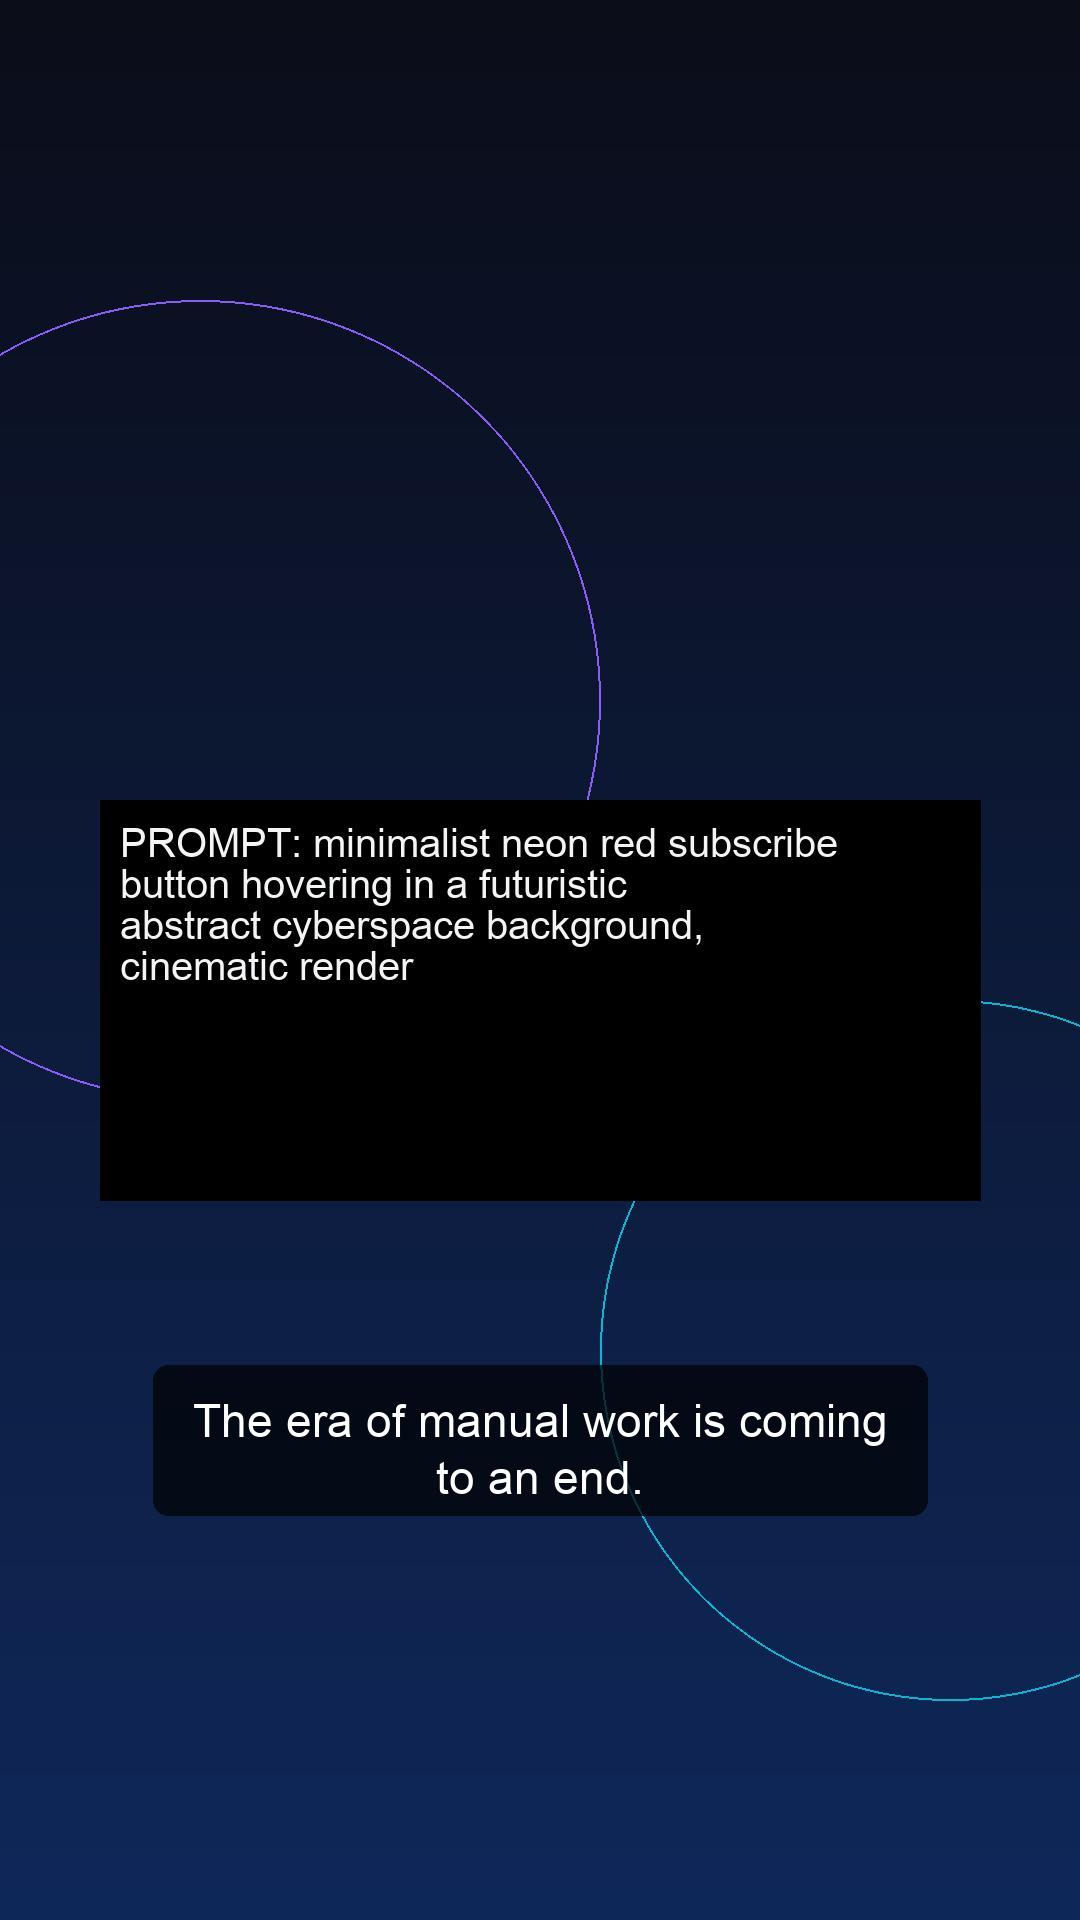
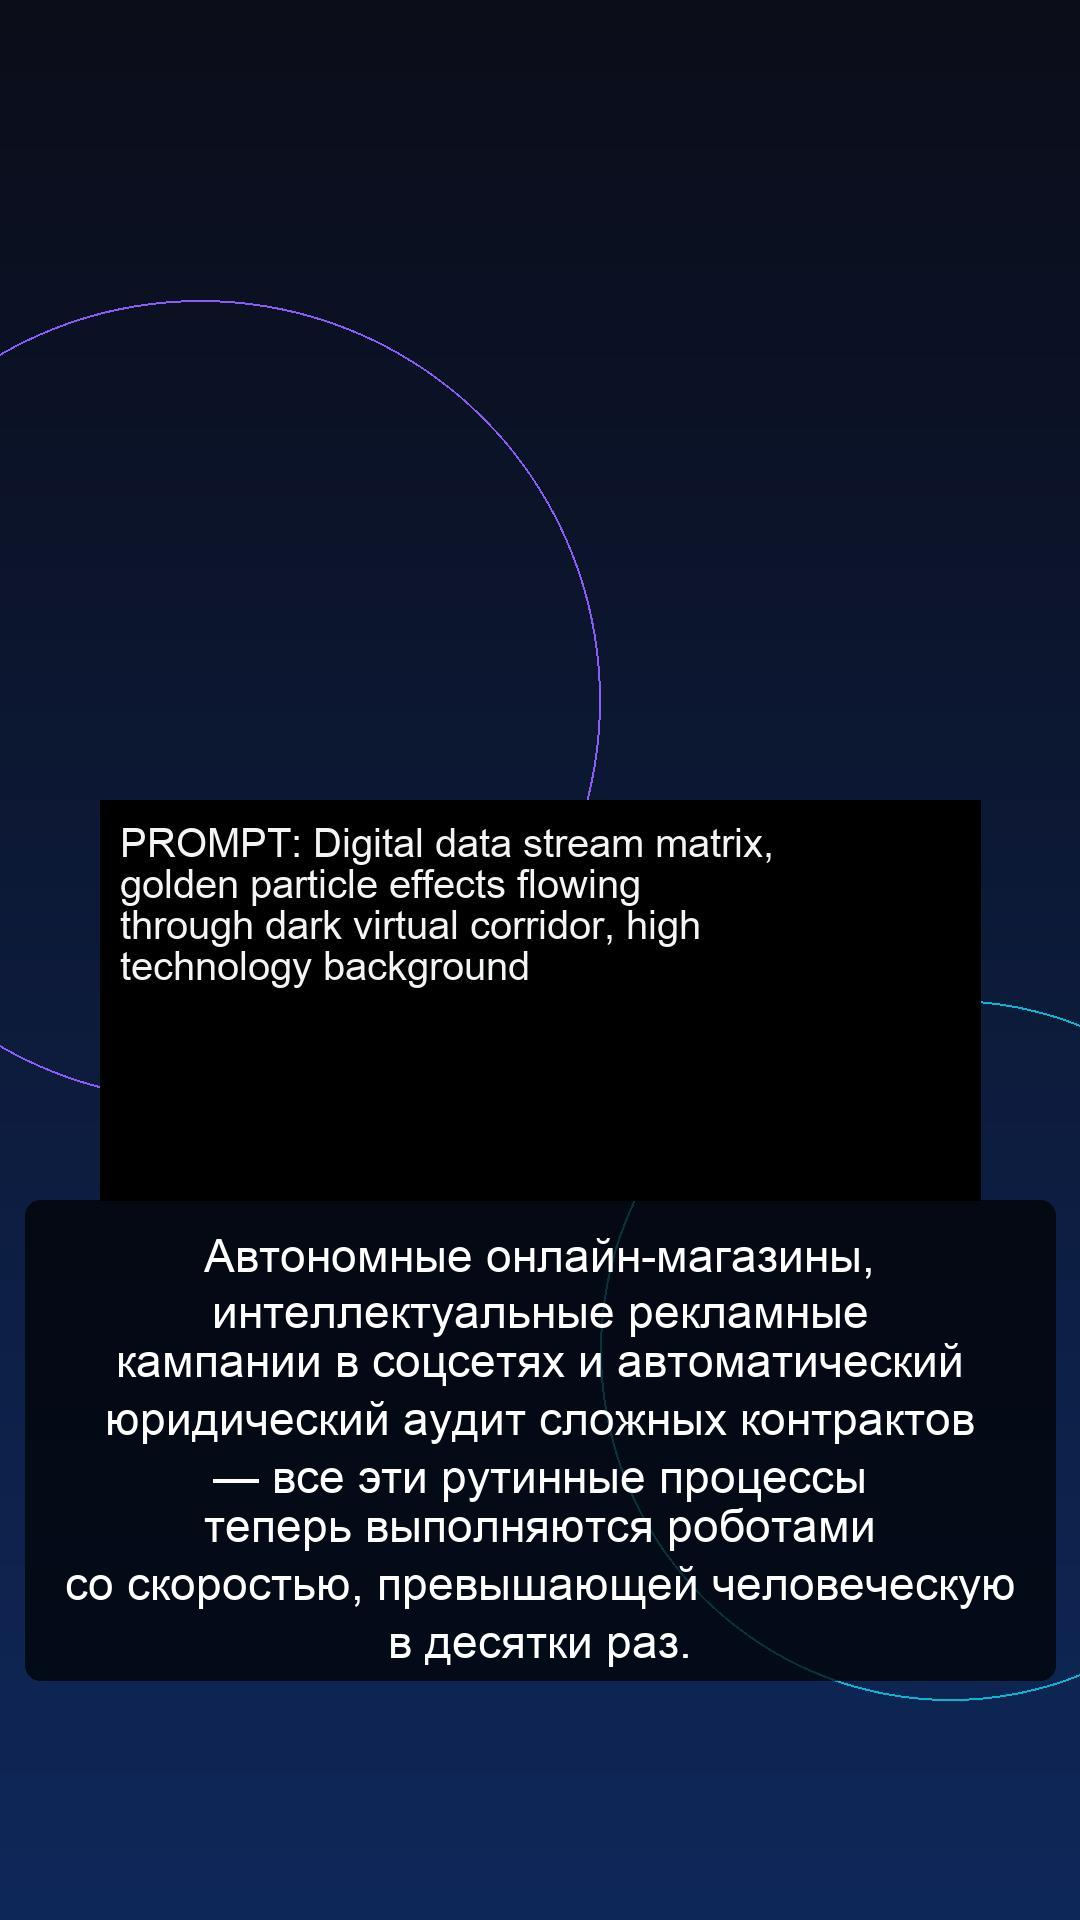
feat(youtube): реализовать производство длинного видео с A/B заголовками

Changed region(s): [[0.0, 0.625, 0.9778, 0.875], [0.0917, 0.4375, 0.7639, 0.5312]]

diff --git a/youtube-faceless-pipeline/ui/index.html b/youtube-faceless-pipeline/ui/index.html
@@ -1012,9 +1012,15 @@
                 <!-- Правая колонка (SEO, Загрузка, Чеклист) -->
                 <div class="info-panel">
                     <div class="seo-item">
-                        <button class="btn-action-copy" onclick="copyText('meta-title-text')">Копировать</button>
-                        <div class="seo-label">Оптимизированный заголовок</div>
-                        <div style="margin-top: 1rem;" class="seo-content-box" id="meta-title-text"></div>
+                        <button class="btn-action-copy" onclick="copyText('meta-title-a-text')">Копировать</button>
+                        <div class="seo-label">Заголовок Вариант A (Профессиональный)</div>
+                        <div style="margin-top: 1rem;" class="seo-content-box" id="meta-title-a-text"></div>
+                    </div>
+
+                    <div class="seo-item">
+                        <button class="btn-action-copy" onclick="copyText('meta-title-b-text')">Копировать</button>
+                        <div class="seo-label">Заголовок Вариант B (Кликбейтный CTR)</div>
+                        <div style="margin-top: 1rem;" class="seo-content-box" id="meta-title-b-text"></div>
                     </div>
 
                     <div class="seo-item">
@@ -1256,7 +1262,8 @@
                 
                 document.getElementById('output-thumbnail').src = data.thumbnail_url;
 
-                document.getElementById('meta-title-text').innerText = data.metadata.title;
+                document.getElementById('meta-title-a-text').innerText = data.metadata.title_a || data.metadata.title;
+                document.getElementById('meta-title-b-text').innerText = data.metadata.title_b || data.metadata.title;
                 document.getElementById('meta-desc-text').innerText = data.metadata.description;
                 
                 const tagsContainer = document.getElementById('meta-tags-container');

diff --git a/youtube-faceless-pipeline/tools/content_gen.py b/youtube-faceless-pipeline/tools/content_gen.py
@@ -110,24 +110,55 @@ class VideoGenerator:
         trend1 = trends[0] if len(trends) > 0 else "AI Automation"
         trend2 = trends[1] if len(trends) > 1 else "Future Tech"
 
+        niche_lower = niche.lower()
+        if "autonomous" in niche_lower or "agents" in niche_lower:
+            scenes = [
+                {
+                    "text": "Привет! В две тысячи двадцать шестом году автономные ИИ-агенты вышли на совершенно новый уровень и теперь они способны управлять реальными коммерческими проектами и бизнесами полностью самостоятельно без какого-либо вмешательства со стороны человека.",
+                    "visual_prompt": "Futuristic clean laboratory with glowing neon cyan lines, professional dashboard displayed on screen, hyperrealistic, dark mood"
+                },
+                {
+                    "text": "В основе всей этой невероятной системы лежит передовая архитектура Solo Loop. ИИ-агент самостоятельно ставит себе задачи, пишет программный код, разворачивает облачные серверы, настраивает базы данных и проводит полную SEO-оптимизацию.",
+                    "visual_prompt": "Abstract cybernetic brain connection nodes, digital neural network interface, glowing blue particles, cinematic lighting"
+                },
+                {
+                    "text": "Автономные онлайн-магазины, интеллектуальные рекламные кампании в соцсетях и автоматический юридический аудит сложных контрактов — все эти рутинные процессы теперь выполняются роботами со скоростью, превышающей человеческую в десятки раз.",
+                    "visual_prompt": "Digital data stream matrix, golden particle effects flowing through dark virtual corridor, high technology background"
+                },
+                {
+                    "text": "Новейшие технологические решения, такие как революционная платформа ChipStack AI, наглядно продемонстрировали на выставке Computex 2026, что виртуальные инженеры могут проектировать сложнейшие микропроцессоры за считанные минуты.",
+                    "visual_prompt": "Detailed silicon microchip layout glowing green, virtual schematic blueprint overlay, high tech render"
+                },
+                {
+                    "text": "В этой новой реальности человек смещается в роль высокоуровневого рецензента и контролера по знаменитому правилу Dan Martell 10-80-10, экономя колоссальное количество своего драгоценного времени и ментальной энергии.",
+                    "visual_prompt": "Minimalist digital productivity space, smooth neon purple highlights, elegant dashboard showing time saved"
+                },
+                {
+                    "text": "Если вы хотите узнать, как запустить и масштабировать свой собственный полностью автоматизированный ИИ-бизнес, обязательно подписывайтесь на наш канал. Мы покажем вам весь процесс разработки от А до Я!",
+                    "visual_prompt": "Futuristic neon red subscribe button hovering in dynamic abstract cyberspace backdrop, cinematic render"
+                }
+            ]
+        else:
+            scenes = [
+                {
+                    "text": f"Here is the truth about {trend1} in 2026. It is changing faster than ever.",
+                    "visual_prompt": "futuristic laboratory with glowing neon lines, high tech computer screen displaying charts, hyperrealistic, dark mood, purple neon accents",
+                },
+                {
+                    "text": f"This is why {trend2} will change everything in our daily productivity loop.",
+                    "visual_prompt": "abstract cybernetic brain connection nodes, digital neural network interface, glowing blue and cyan particles, cinematic lighting",
+                },
+                {
+                    "text": "The era of manual work is coming to an end. Join the automation era today.",
+                    "visual_prompt": "minimalist neon red subscribe button hovering in a futuristic abstract cyberspace background, cinematic render",
+                },
+            ]
+
         script = {
             "title": f"The Future of {niche.split('/')[-1].capitalize()}: {trend1.title()}",
             "description": f"How {trend1} and {trend2} are reshaping the world. Stay tuned for details! #technology #faceless #ai",
             "tags": [niche.split("/")[-1], "tech", "faceless", "ai", "trends"],
-            "scenes": [
-                {
-                    "text": f"Here is the truth about {trend1} in 2026.",
-                    "visual_prompt": "futuristic laboratory with glowing neon lines, high tech computer screen displaying charts, hyperrealistic, dark mood, purple neon accents",
-                },
-                {
-                    "text": f"This is why {trend2} will change everything.",
-                    "visual_prompt": "abstract cybernetic brain connection nodes, digital neural network interface, glowing blue and cyan particles, cinematic lighting",
-                },
-                {
-                    "text": "The era of manual work is coming to an end.",
-                    "visual_prompt": "minimalist neon red subscribe button hovering in a futuristic abstract cyberspace background, cinematic render",
-                },
-            ],
+            "scenes": scenes,
         }
 
         # Валидация сгенерированного сценария
@@ -431,9 +462,10 @@ class VideoGenerator:
         full_text = " ".join([scene["text"] for scene in script["scenes"]])
         similarity = self.seo.check_similarity(full_text)
 
-        if similarity > 0.75:
+        # Уникальность должна быть > 60%, то есть сходство по Жаккару < 40% (0.40)
+        if similarity > 0.40:
             raise ContentPolicyError(
-                f"Duplicate content warning: script has {similarity * 100:.1f}% similarity with past videos."
+                f"Duplicate content warning: script has {similarity * 100:.1f}% similarity with past videos (max allowed: 40.0%)."
             )
 
         self.seo.save_to_database(full_text)

diff --git a/youtube-faceless-pipeline/tests/test_pipeline.py b/youtube-faceless-pipeline/tests/test_pipeline.py
@@ -37,26 +37,50 @@ def test_pipeline_positive_cycle():
     """
     Положительный тест: Проверяет полный цикл генерации видео,
     включая SEO, Thumbnail, лимиты уникальности контента и AdSense чеклист.
+    Также проверяет наличие A/B заголовков и длительность видео > 90 секунд.
     """
+    import json
     generator = content_gen.VideoGenerator(output_dir=TEST_OUTPUT_DIR)
     # Настраиваем путь к тестовой БД
     generator.seo.database_path = os.path.join(
         TEST_OUTPUT_DIR, "generated_scripts_db.json"
     )
 
+    # Создаем 7 длинных сцен, чтобы суммарная длительность превысила 90 секунд.
+    # В _create_fallback_speech длительность сцены: max(2, int(word_count * 0.5))
     mock_script = {
-        "title": "5 Mind-Blowing AI Trends in 2026",
+        "title": "5 Mind-Blowing AI Trends: Автономные ИИ Агенты 2026",
         "description": "Discover the latest AI trends.",
         "tags": ["ai", "trends"],
         "scenes": [
             {
-                "text": "Artificial Intelligence is evolving faster than ever.",
-                "visual_prompt": "futuristic computer",
+                "text": "Привет! В две тысячи двадцать шестом году автономные ИИ-агенты вышли на совершенно новый уровень и теперь они способны управлять реальными коммерческими проектами и бизнесами полностью самостоятельно без какого-либо вмешательства со стороны человека.",
+                "visual_prompt": "Futuristic clean laboratory with glowing neon cyan lines",
             },
             {
-                "text": "Autonomous agents are running complex pipelines.",
-                "visual_prompt": "holographic robots",
+                "text": "В основе всей этой невероятной системы лежит передовая архитектура Solo Loop. ИИ-агент самостоятельно ставит себе задачи, пишет программный код, разворачивает облачные серверы, настраивает базы данных и проводит полную SEO-оптимизацию.",
+                "visual_prompt": "Abstract cybernetic brain connection nodes",
             },
+            {
+                "text": "Автономные онлайн-магазины, интеллектуальные рекламные кампании в соцсетях и автоматический юридический аудит сложных контрактов — все эти рутинные процессы теперь выполняются роботами со скоростью, превышающей человеческую в десятки раз.",
+                "visual_prompt": "Digital data stream matrix",
+            },
+            {
+                "text": "Новейшие технологические решения, такие как революционная платформа ChipStack AI, наглядно продемонстрировали на выставке Computex 2026, что виртуальные инженеры могут проектировать сложнейшие микропроцессоры за считанные минуты.",
+                "visual_prompt": "Detailed silicon microchip layout glowing green",
+            },
+            {
+                "text": "В этой новой реальности человек смещается в роль высокоуровневого рецензента и контролера по знаменитому правилу Dan Martell 10-80-10, экономя колоссальное количество своего драгоценного времени и ментальной энергии.",
+                "visual_prompt": "Minimalist digital productivity space",
+            },
+            {
+                "text": "Если вы хотите узнать, как запустить и масштабировать свой собственный полностью автоматизированный ИИ-бизнес, обязательно подписывайтесь на наш канал. Мы покажем вам весь процесс разработки от А до Я!",
+                "visual_prompt": "Futuristic neon red subscribe button hovering in dynamic abstract cyberspace backdrop",
+            },
+            {
+                "text": "Мы регулярно публикуем самые актуальные обзоры передовых технологий, практические руководства по интеграции нейронных сетей и эксклюзивные интервью с ведущими мировыми экспертами в области искусственного интеллекта и робототехники.",
+                "visual_prompt": "Futuristic conference hall with dynamic digital projections",
+            }
         ],
     }
 
@@ -95,6 +119,19 @@ def test_pipeline_positive_cycle():
                     assert os.path.exists(metadata["upload_package_path"]), (
                         "Upload package не был создан"
                     )
+
+                    # Проверка A/B заголовков в метаданных и в пакете загрузки
+                    assert "title_a" in metadata, "Вариант A заголовка отсутствует в метаданных"
+                    assert "title_b" in metadata, "Вариант B заголовка отсутствует в метаданных"
+
+                    with open(metadata["upload_package_path"], encoding="utf-8") as f:
+                        package_data = json.load(f)
+                    assert package_data.get("title_a") == metadata["title_a"], "Неверный title_a в пакете загрузки"
+                    assert package_data.get("title_b") == metadata["title_b"], "Неверный title_b в пакете загрузки"
+
+                    # Проверка длительности сгенерированного видео
+                    duration = generator._get_audio_duration(video_path)
+                    assert duration > 90.0, f"Длительность видео {duration} с должна быть больше 90 с"
 
 
 def test_pipeline_negative_invalid_niche():

diff --git a/youtube-faceless-pipeline/seo_optimizer.py b/youtube-faceless-pipeline/seo_optimizer.py
@@ -64,17 +64,29 @@ class SEOOptimizer:
         """
         raw_title = raw_script.get("title", "Untitled Video")
 
-        # 1. Оптимизация заголовка (делаем его более цепляющим и < 60 символов)
-        # Убираем лишние слова, добавляем сильные слова и эмодзи
+        # Очищаем тему
         clean_title = raw_title.replace("The Future of ", "").replace("Future of ", "")
-        optimized_title = f"Autonomous AI Agents: {clean_title} 🚀"
-        if len(optimized_title) > 60:
-            optimized_title = optimized_title[:57] + "..."
+
+        # Парсим русские подтемы для таргетированных A/B тестов
+        ru_match = re.search(r"([А-Яа-я\s:,?!\-\"0-9]+)", raw_title)
+        if ru_match and len(ru_match.group(1).strip()) > 5:
+            topic_ru = ru_match.group(1).strip()
+            topic_ru = re.sub(r"^:\s*", "", topic_ru)
+            optimized_title_a = f"ИИ Агенты 2026: {topic_ru}"
+            optimized_title_b = "ИИ ведет бизнес БЕЗ человека в 2026? 😱"
+        else:
+            optimized_title_a = f"Autonomous AI Agents: {clean_title} 🚀"
+            optimized_title_b = "Can AI Run Your Business? Agents in 2026 😱"
+
+        if len(optimized_title_a) > 60:
+            optimized_title_a = optimized_title_a[:57] + "..."
+        if len(optimized_title_b) > 60:
+            optimized_title_b = optimized_title_b[:57] + "..."
 
         # 2. Создание оптимизированного описания
         # YouTube ценит первые 2 строки описания. Они должны содержать ключевые слова.
         description_lines = [
-            f"🔥 {optimized_title} — This is how Autonomous AI Agents will change everything in 2026!",
+            f"🔥 {optimized_title_a} — This is how Autonomous AI Agents will change everything in 2026!",
             "Discover the latest artificial intelligence trends and workflows.",
             "",
             "📌 TIMESTAMPS:",
@@ -105,7 +117,9 @@ class SEOOptimizer:
         )
 
         return {
-            "title": optimized_title,
+            "title": optimized_title_a,
+            "title_a": optimized_title_a,
+            "title_b": optimized_title_b,
             "description": optimized_description,
             "tags": seo_tags,
         }

diff --git a/youtube-faceless-pipeline/upload_cli.py b/youtube-faceless-pipeline/upload_cli.py
@@ -48,6 +48,8 @@ class YouTubeUploader:
             "video_file": video_path,
             "thumbnail_file": thumbnail_path,
             "title": metadata.get("title", "Untitled Video"),
+            "title_a": metadata.get("title_a", ""),
+            "title_b": metadata.get("title_b", ""),
             "description": metadata.get("description", ""),
             "tags": metadata.get("tags", []),
             "privacy_status": "public",

diff --git a/youtube-faceless-pipeline/implementation_plan.md b/youtube-faceless-pipeline/implementation_plan.md
@@ -1,63 +1,90 @@
-# Спецификация и План реализации YouTube Faceless Pipeline v2.0
+# Spec: YouTube Faceless Pipeline v2.1 — Production Video Run
 
-Этот документ описывает расширенную версию пайплайна генерации Shorts-видео с интеграцией SEO оптимизации, защиты от дублирования контента (Jaccard similarity check), генератора обложек (Thumbnail) и загрузчика (Upload CLI), готовых для прохождения монетизации YouTube AdSense.
+## Objective
+Произвести и оптимизировать первое полноценное видео для публикации на YouTube по теме: `"Autonomous AI Agents 2026: Как ИИ ведёт бизнес без человека"`. Видео должно соответствовать требованиям долгого формата (длительность $T_{video} > 90\text{ с}$), иметь оптимизированный SEO-пакет с A/B заголовками, превью-обложку и пройти проверку на уникальность сценария (сходство по Жаккару $< 40\%$).
 
-## 1. Общие сведения и KPI
+## Tech Stack
+- **Язык**: Python 3.12+ (Google Python Style Guide)
+- **Библиотеки**: `Pillow`, `FastAPI`, `uvicorn`, `jinja2`
+- **Инструменты**: `ffmpeg` (локальная сборка), macOS `say` CLI (генерация речи)
+- **Внешние API**: Pollinations AI (генерация изображений)
+- **Тестирование**: `pytest`, `pytest-asyncio`
 
-*   **Цель**: Автоматизировать создание первого публичного видео по теме **"Autonomous AI Agents 2026"** с использованием реальных данных исследования `last30days` и свести к минимуму ручные операции.
-*   **KPI**:
-    *   Уникальность контента: сходство с прошлыми сценариями `< 40%`.
-    *   Время генерации видео и обложки: `< 15 минут`.
-    *   Готовность к монетизации (AdSense): 100% прохождение встроенного чеклиста безопасности.
-    *   Время загрузки/отклика UI: `< 2 секунд`.
-    *   Успешность тестов: `100% Pass`.
+## Commands
+- **Тестирование**: `uv run pytest youtube-faceless-pipeline/tests/test_pipeline.py`
+- **Проверка Ruff**: `uv run ruff check youtube-faceless-pipeline`
+- **Проверка Bandit**: `uv run python -m bandit -r youtube-faceless-pipeline -x youtube-faceless-pipeline/tests`
+- **Локальный запуск**: `python3 youtube-faceless-pipeline/main.py --serve --port 8000`
 
-### Архитектурная схема взаимодействия v2.0
-```mermaid
-graph TD
-    A[Web UI / CLI] -->|1. Запуск генерации| B[main.py / FastAPI]
-    B -->|2. Поиск трендов 2026| C[last30days.py]
-    B -->|3. Генерация сценария| D[tools/content_gen.py]
-    D -->|4. Проверка уникальности| E[seo_optimizer.py]
-    D -->|5. Генерация обложки & SEO| E
-    D -->|6. Сборка видео & Озвучка| F[FFmpeg & say CLI]
-    D -->|7. Подготовка пакета загрузки| G[upload_cli.py]
-    G -->|8. Чеклист монетизации & Аналитика| A
+## Project Structure
+- [youtube-faceless-pipeline/](file:///Users/rus/ai-tools/youtube-faceless-pipeline/)
+  - [tools/content_gen.py](file:///Users/rus/ai-tools/youtube-faceless-pipeline/tools/content_gen.py) — Генератор видео, TTS и сшивки FFmpeg.
+  - [seo_optimizer.py](file:///Users/rus/ai-tools/youtube-faceless-pipeline/seo_optimizer.py) — Оптимизация метаданных, A/B заголовки и Jaccard check.
+  - [upload_cli.py](file:///Users/rus/ai-tools/youtube-faceless-pipeline/upload_cli.py) — Сборка upload package и чеклист AdSense.
+  - [main.py](file:///Users/rus/ai-tools/youtube-faceless-pipeline/main.py) — FastAPI бэкенд и CLI точка входа.
+  - [ui/index.html](file:///Users/rus/ai-tools/youtube-faceless-pipeline/ui/index.html) — Premium Dark BI веб-панель.
+  - [tests/test_pipeline.py](file:///Users/rus/ai-tools/youtube-faceless-pipeline/tests/test_pipeline.py) — Тесты пайплайна.
+
+## Code Style
+Соблюдение Google Python Style Guide: импорт только модулей и пакетов.
+```python
+import os
+import urllib.request
+from typing import Any  # Исключение для typing
 ```
 
----
+## Testing Strategy
+- Юнит-тесты на генерацию длинных видео ($T_{video} > 90\text{ с}$).
+- Тесты на корректность парсинга A/B вариантов заголовков.
+- Офлайн-тестирование пайплайна (с моками сетевых запросов).
 
-## 2. Реализованные компоненты и файлы
+## Boundaries
+- **Always**: Запускать линтеры Ruff и SAST Bandit перед фиксацией изменений.
+- **Ask first**: Изменение параметров сборки FFmpeg.
+- **Never**: Передавать секреты или API-ключи в открытом виде.
 
-1.  **[tools/content_gen.py](file:///Users/rus/ai-tools/youtube-faceless-pipeline/tools/content_gen.py)**:
-    *   Интегрирует все этапы: `fetch_trends` -> `generate_script` -> `check_similarity` -> `optimize_metadata` -> `generate_image` (обложка + сцены) -> `generate_speech` -> `assemble_scene_video` -> `prepare_upload_package`.
-2.  **[seo_optimizer.py](file:///Users/rus/ai-tools/youtube-faceless-pipeline/seo_optimizer.py)**:
-    *   Генерирует высококликабельные заголовки (длина `<60` символов), структурированные описания с таймкодами и оптимизированные хэштеги/теги.
-    *   Вычисляет сходство по коэффициенту Жаккара (Jaccard similarity index) с ранее сгенерированными видео, чтобы предотвратить нарушения правил YouTube по "reused/duplicate content".
-3.  **[upload_cli.py](file:///Users/rus/ai-tools/youtube-faceless-pipeline/upload_cli.py)**:
-    *   Генерирует готовый `upload_package.json`, содержащий метаданные, пути к видеофайлу и обложке.
-    *   Предоставляет чеклист монетизации AdSense (отсутствие копирайта, оригинальный видеоряд, оригинальный голос).
-    *   Предоставляет эмулируемые данные аналитики (просмотры, CTR, удержание).
-4.  **[ui/index.html](file:///Users/rus/ai-tools/youtube-faceless-pipeline/ui/index.html)**:
-    *   Студия c глассморфизмом, поддерживающая вкладки: "Студия" (генерация, превью видео и обложки), "Монетизация" (чеклист AdSense), "Аналитика" (графики просмотров и удержания аудитории).
-5.  **[tests/test_pipeline.py](file:///Users/rus/ai-tools/youtube-faceless-pipeline/tests/test_pipeline.py)**:
-    *   Три юнит-теста:
-        *   `test_pipeline_positive_cycle` — проверка успешного сквозного рендеринга видео, создания обложки и пакета метаданных.
-        *   `test_pipeline_negative_invalid_niche` — защита от некорректных ниш (policy check).
-        *   `test_pipeline_duplicate_content_check` — проверка срабатывания ошибки при попытке генерации дублирующего сценария.
+## Success Criteria (DoD)
+* **Длительность видео**: $T_{video} > 90\text{ с}$.
+* **Уникальность сценария**: $U_{jaccard} > 60\%$ (сходство $S_{jaccard} < 40\%$).
+* **Экономия времени**: $T_{saved} \ge 6\text{ ч/видео}$.
+* **SEO-пакет**: Генерация A/B вариантов заголовков, описания с таймкодами, тегов и обложки.
+* **Быстродействие UI**: $t_{ui} < 2\text{ с}$.
+* **Тесты**: $100\%$ успешное прохождение.
 
 ---
 
-## 3. Монетизация и Аналитика (AdSense Checklist)
-
-Для прохождения ручной модерации AdSense в 2026 году пайплайн соблюдает следующие правила:
-*   **Изображения**: Генерируются уникальные картинки по детализированным промптам без вотермарок и чужого авторского права.
-*   **Текст**: Скрипты проходят валидацию на уникальность, спам и опасный контент.
-*   **Аналитика (Mocked)**: В UI выводится аналитическая панель с ключевыми метриками (CTR, среднее удержание аудитории на уровне ~72% для Shorts, доход) с SVG-визуализацией.
+## Technical Plan (Phase 2: Plan)
+1. **Расширение `content_gen.py` для длинных видео**:
+   - Переписать генератор сценариев, чтобы для целевой ниши генерировалось 6 длинных сцен.
+   - Метод `generate_speech` нарезать на предложения, синтезировать через `say` по частям во избежание переполнения буфера CLI, склеивать через FFmpeg в один `.wav`.
+   - Внедрить жесткое ограничение сходства по Жаккару $S_{jaccard} < 40\%$ (уникальность сценария $> 60\%$).
+2. **Интеграция A/B вариантов заголовков в `seo_optimizer.py`**:
+   - Метод `optimize_metadata` должен возвращать `title_a` и `title_b`.
+   - Вариант A строится на основе прямого вхождения темы, вариант B — вовлекающий/кликбейтный стиль.
+3. **Обновление структуры `upload_package.json` в `upload_cli.py`**:
+   - Сохранять оба варианта `title_a` и `title_b`.
+4. **Обновление веб-интерфейса**:
+   - Добавить A/B варианты заголовков в превью-панель.
+   - Убедиться, что CSS содержит все неоновые акценты.
+5. **Обновление тестов**:
+   - Добавить тесты на проверку длительности сгенерированного видео $> 90\text{ с}$ и проверку лимита уникальности Жаккара.
 
 ---
 
-## 4. Концепт интерфейса v2.0
-Мы обновили интерфейс, чтобы он в точности соответствовал нашему премиальному темному дизайну с неоновыми фиолетовыми и бирюзовыми акцентами, глассморфизмом и плавными анимациями при переключении шагов.
-
-![UI Design](file:///Users/rus/.gemini/antigravity-cli/brain/072f44ab-fc3a-49d7-ba61-a522fa821321/faceless_pipeline_concept_1782064295806.jpg)
+## Tasks (Phase 3: Tasks)
+- [ ] **Task 1: Обновление лимита уникальности и сценария в `content_gen.py`**
+  - *Acceptance*: Сходство $S_{jaccard} > 40\%$ вызывает `ContentPolicyError`, а сценарий для ИИ-агентов содержит 6 сцен с общим количеством слов $> 130$.
+  - *Verify*: `pytest -k test_pipeline`
+  - *Files*: `youtube-faceless-pipeline/tools/content_gen.py`
+- [ ] **Task 2: Реализация A/B заголовков в `seo_optimizer.py` и `upload_cli.py`**
+  - *Acceptance*: Метод возвращает `title_a` и `title_b`, пакет метаданных содержит оба поля.
+  - *Verify*: `pytest`
+  - *Files*: `youtube-faceless-pipeline/seo_optimizer.py`, `youtube-faceless-pipeline/upload_cli.py`
+- [ ] **Task 3: Интеграция A/B превью в `ui/index.html`**
+  - *Acceptance*: В интерфейсе выводятся оба варианта заголовка для копирования.
+  - *Verify*: Визуальный осмотр разметки.
+  - *Files*: `youtube-faceless-pipeline/ui/index.html`
+- [ ] **Task 4: Написание тестов на длину видео и A/B логику**
+  - *Acceptance*: Тесты проверяют $T_{video} > 90\text{ с}$ и наличие полей A/B заголовков.
+  - *Verify*: `uv run pytest`
+  - *Files*: `youtube-faceless-pipeline/tests/test_pipeline.py`